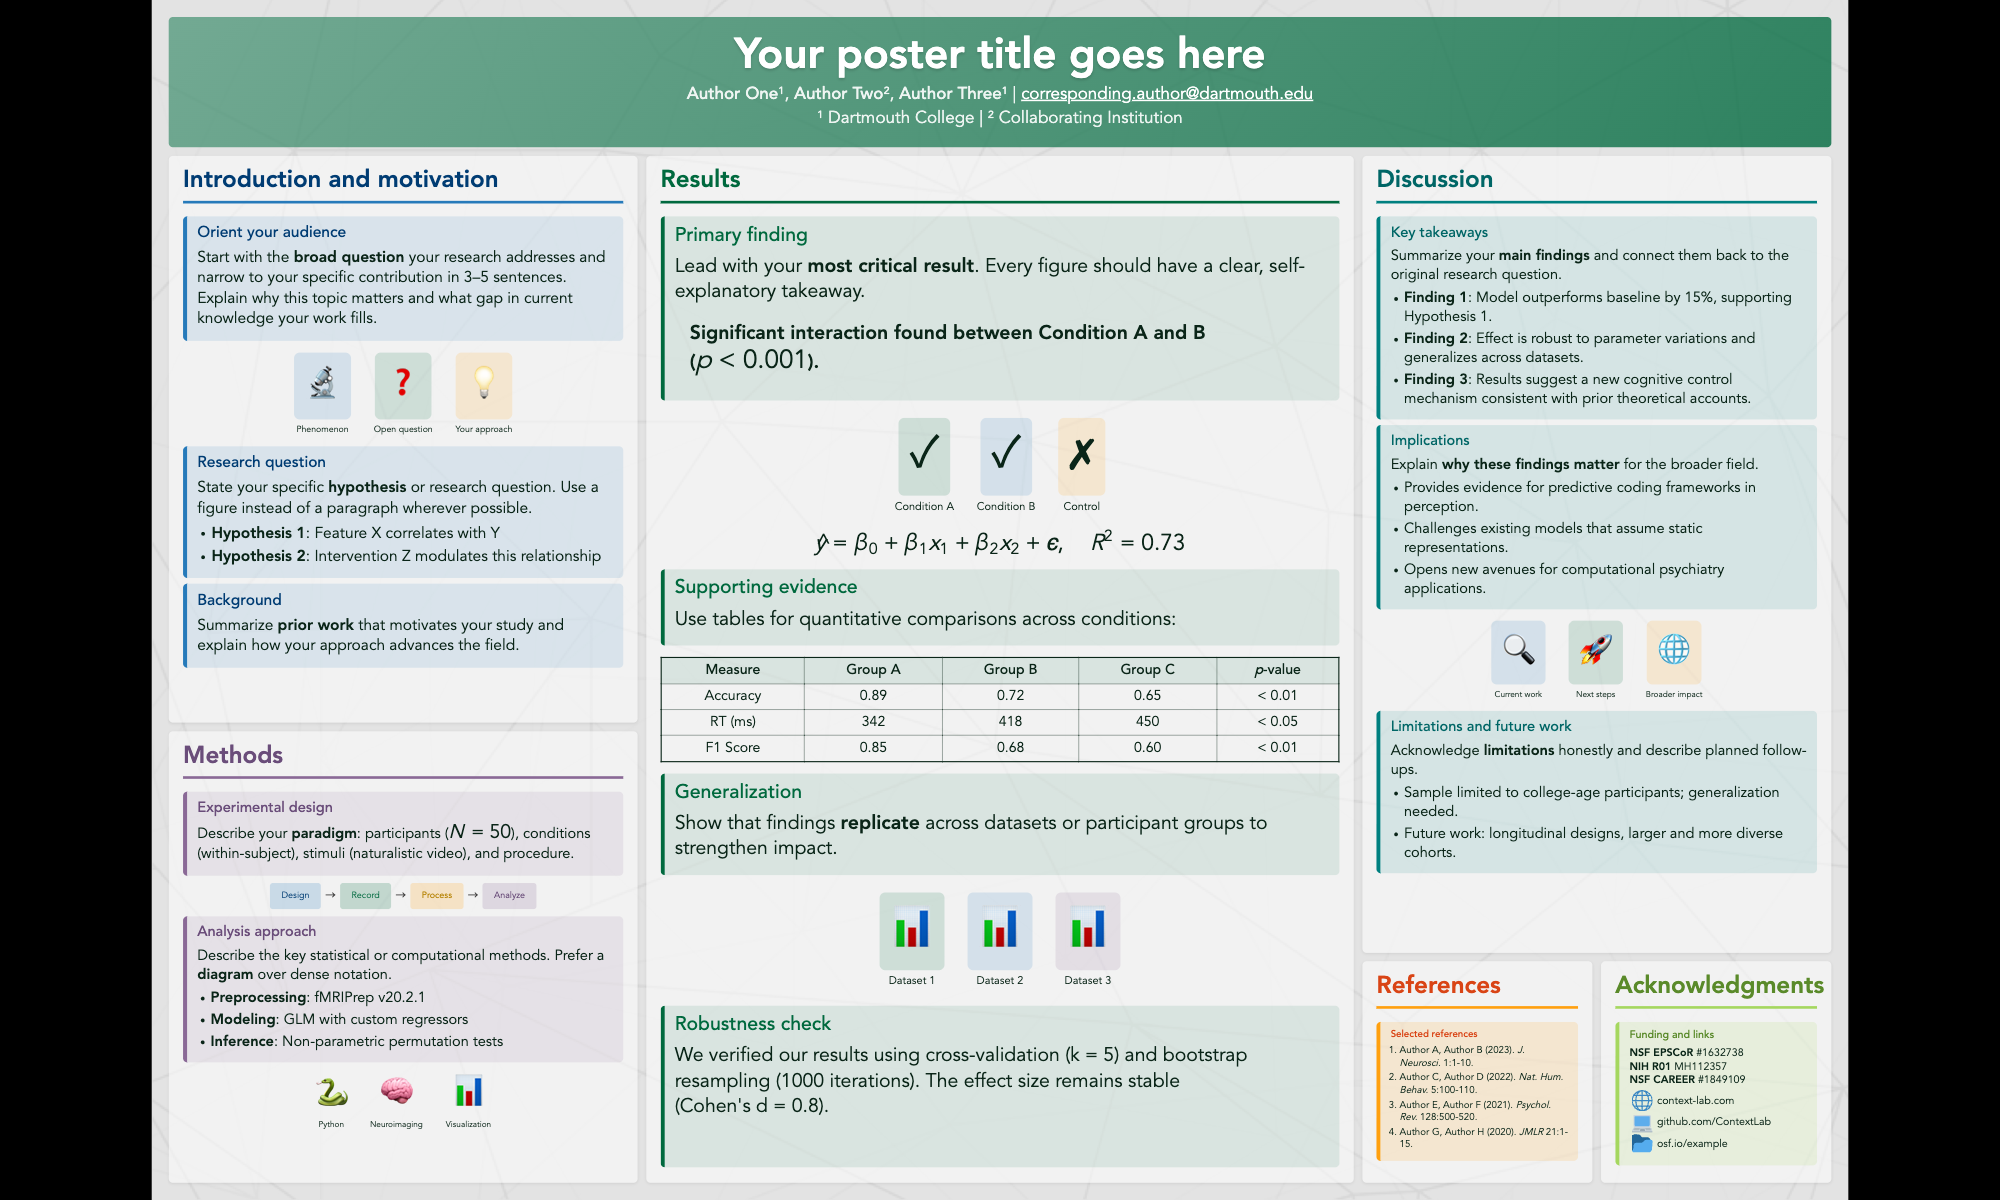
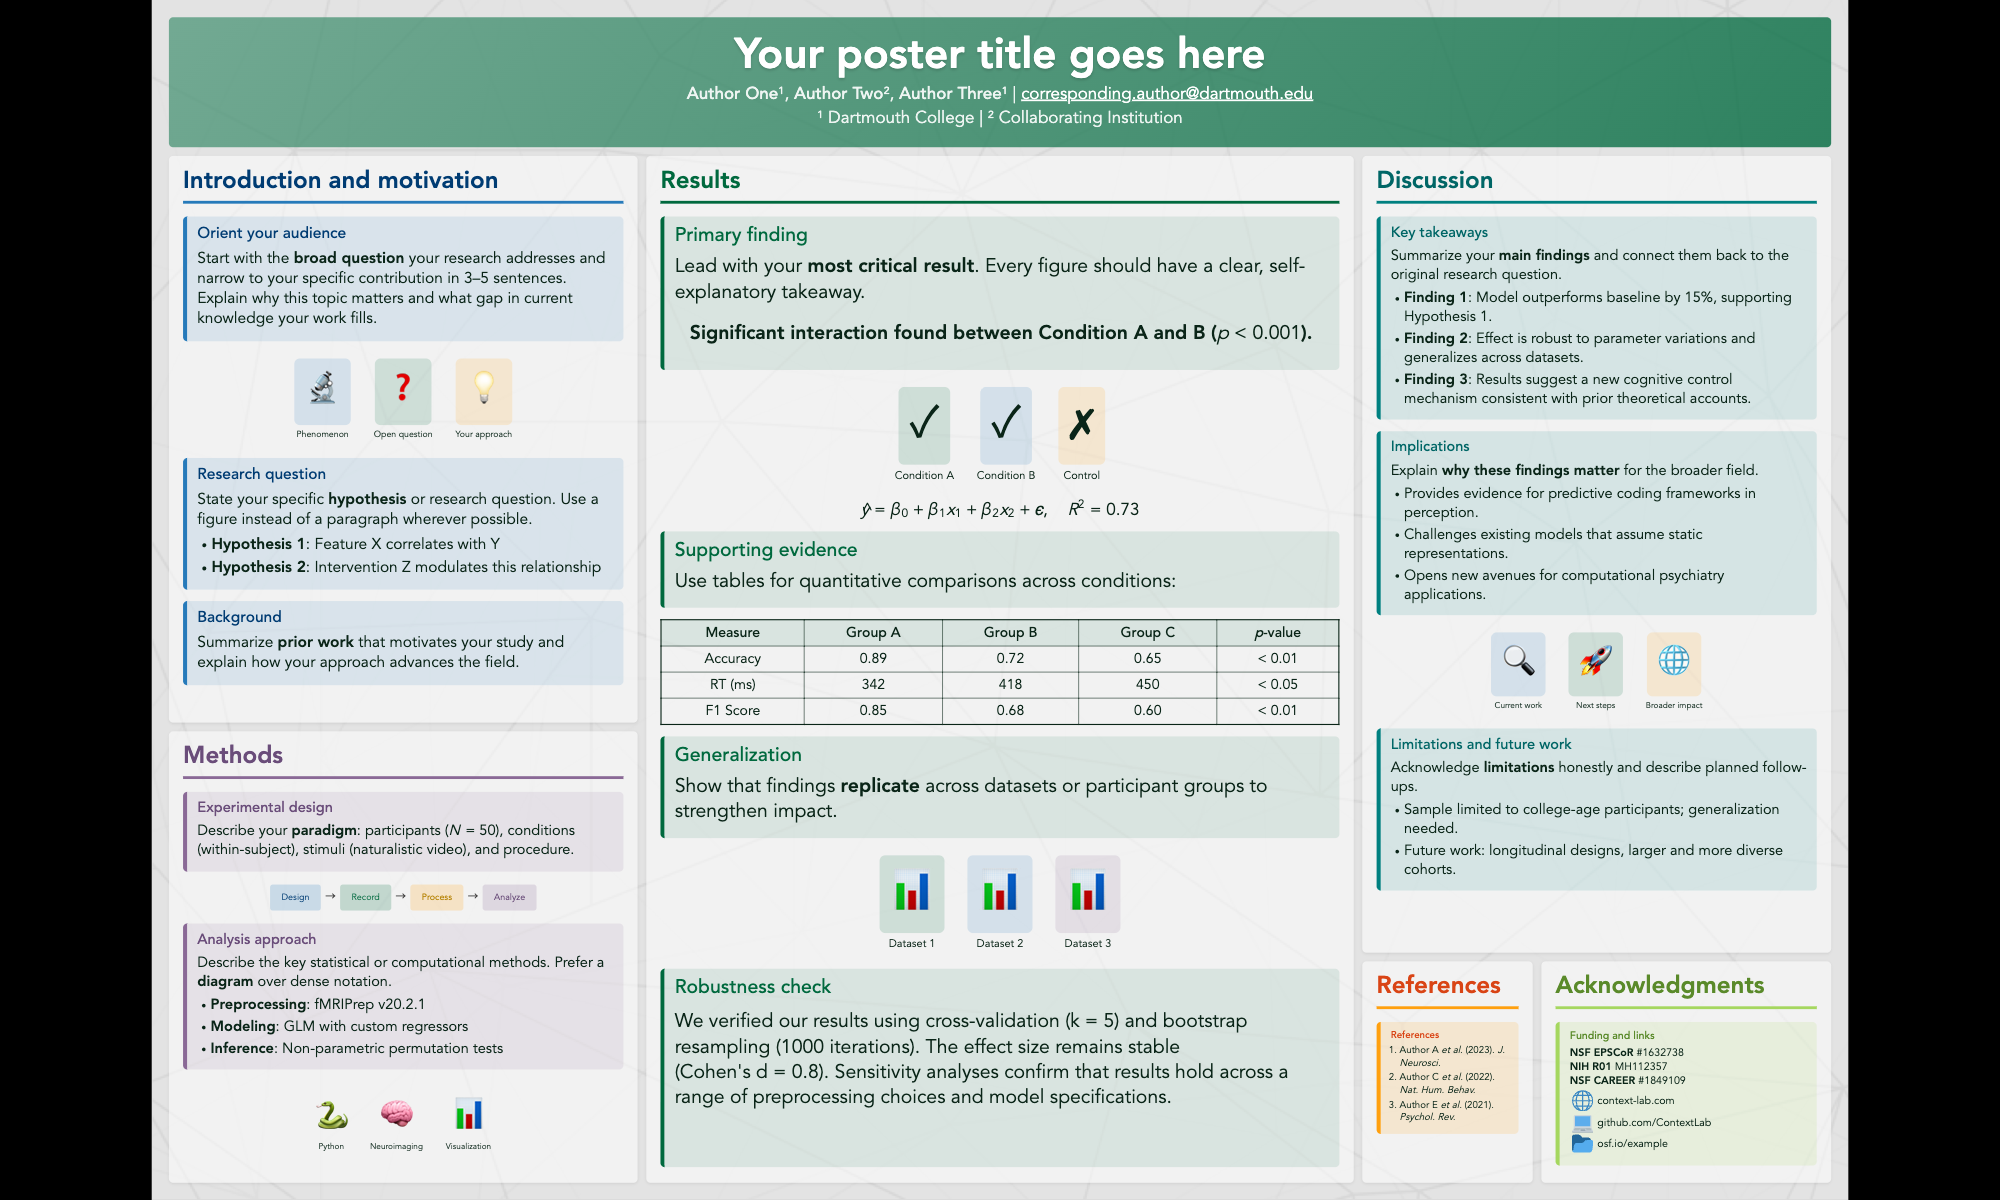
Tweak poster: match math font size, fill robustness box, center Methods emoji, adjust ref/ack split
- Reduce KaTeX font-size from 1.1em to 1em to match surrounding body text
- Add sentence to Robustness check box to fill available space
- Center Methods emoji figure vertically using flex wrapper
- Shift ASCII layout boundary: References 3 cols, Acknowledgments 5 cols
- Shorten reference entries to fit narrower column

diff --git a/src/cdl_slides/assets/themes/cdl-poster-theme.css b/src/cdl_slides/assets/themes/cdl-poster-theme.css
@@ -222,6 +222,8 @@ table th {
 
 .poster-section > :last-child {
   flex-grow: 1;
+  display: flex;
+  flex-direction: column;
 }
 
 .poster-title {
@@ -358,7 +360,7 @@ a {
 .katex,
 .katex .katex-html,
 .katex .base {
-  font-size: 1.1em;
+  font-size: 1em;
 }
 
 /* Prevent awkward line breaks in math and around punctuation */

diff --git a/examples/sample_poster.md b/examples/sample_poster.md
@@ -14,8 +14,8 @@ IIIIIIIIRRRRRRRRRRRRDDDDDDDD
 IIIIIIIIRRRRRRRRRRRRDDDDDDDD
 MMMMMMMMRRRRRRRRRRRRDDDDDDDD
 MMMMMMMMRRRRRRRRRRRRDDDDDDDD
-MMMMMMMMRRRRRRRRRRRREEEEAAAA
-MMMMMMMMRRRRRRRRRRRREEEEAAAA
+MMMMMMMMRRRRRRRRRRRREEEAAAAA
+MMMMMMMMRRRRRRRRRRRREEEAAAAA
 ```
 
 ## T: Your poster title goes here
@@ -96,6 +96,7 @@ Describe the key statistical or computational methods. Prefer a **diagram** over
 
 </div>
 
+<div style="flex: 1; display: flex; align-items: center; justify-content: center;">
 <div class="emoji-figure">
 <div class="emoji-col">
 <span class="emoji emoji-xl">🐍</span>
@@ -108,6 +109,7 @@ Describe the key statistical or computational methods. Prefer a **diagram** over
 <div class="emoji-col">
 <span class="emoji emoji-xl">📊</span>
 <span class="label">Visualization</span>
+</div>
 </div>
 </div>
 
@@ -179,7 +181,7 @@ Show that findings **replicate** across datasets or participant groups to streng
 
 <div class="example-box" data-title="Robustness check">
 
-We verified our results using cross-validation <span style="white-space:nowrap;">(k&nbsp;=&nbsp;5)</span> and bootstrap resampling <span style="white-space:nowrap;">(1000 iterations).</span> The effect size remains stable <span style="white-space:nowrap;">(Cohen's d&nbsp;=&nbsp;0.8).</span>
+We verified our results using cross-validation <span style="white-space:nowrap;">(k&nbsp;=&nbsp;5)</span> and bootstrap resampling <span style="white-space:nowrap;">(1000 iterations).</span> The effect size remains stable <span style="white-space:nowrap;">(Cohen's d&nbsp;=&nbsp;0.8).</span> Sensitivity analyses confirm that results hold across a range of preprocessing choices and model specifications.
 
 </div>
 
@@ -238,12 +240,11 @@ Acknowledge **limitations** honestly and describe planned follow-ups.
 
 <div class="scale-50">
 
-<div class="warning-box" data-title="Selected references">
+<div class="warning-box" data-title="References">
 
-1. Author A, Author B (2023). *J. Neurosci.* 1:1-10.
-2. Author C, Author D (2022). *Nat. Hum. Behav.* 5:100-110.
-3. Author E, Author F (2021). *Psychol. Rev.* 128:500-520.
-4. Author G, Author H (2020). *JMLR* 21:1-15.
+1. Author A *et al.* (2023). *J. Neurosci.*
+2. Author C *et al.* (2022). *Nat. Hum. Behav.*
+3. Author E *et al.* (2021). *Psychol. Rev.*
 
 </div>
 
